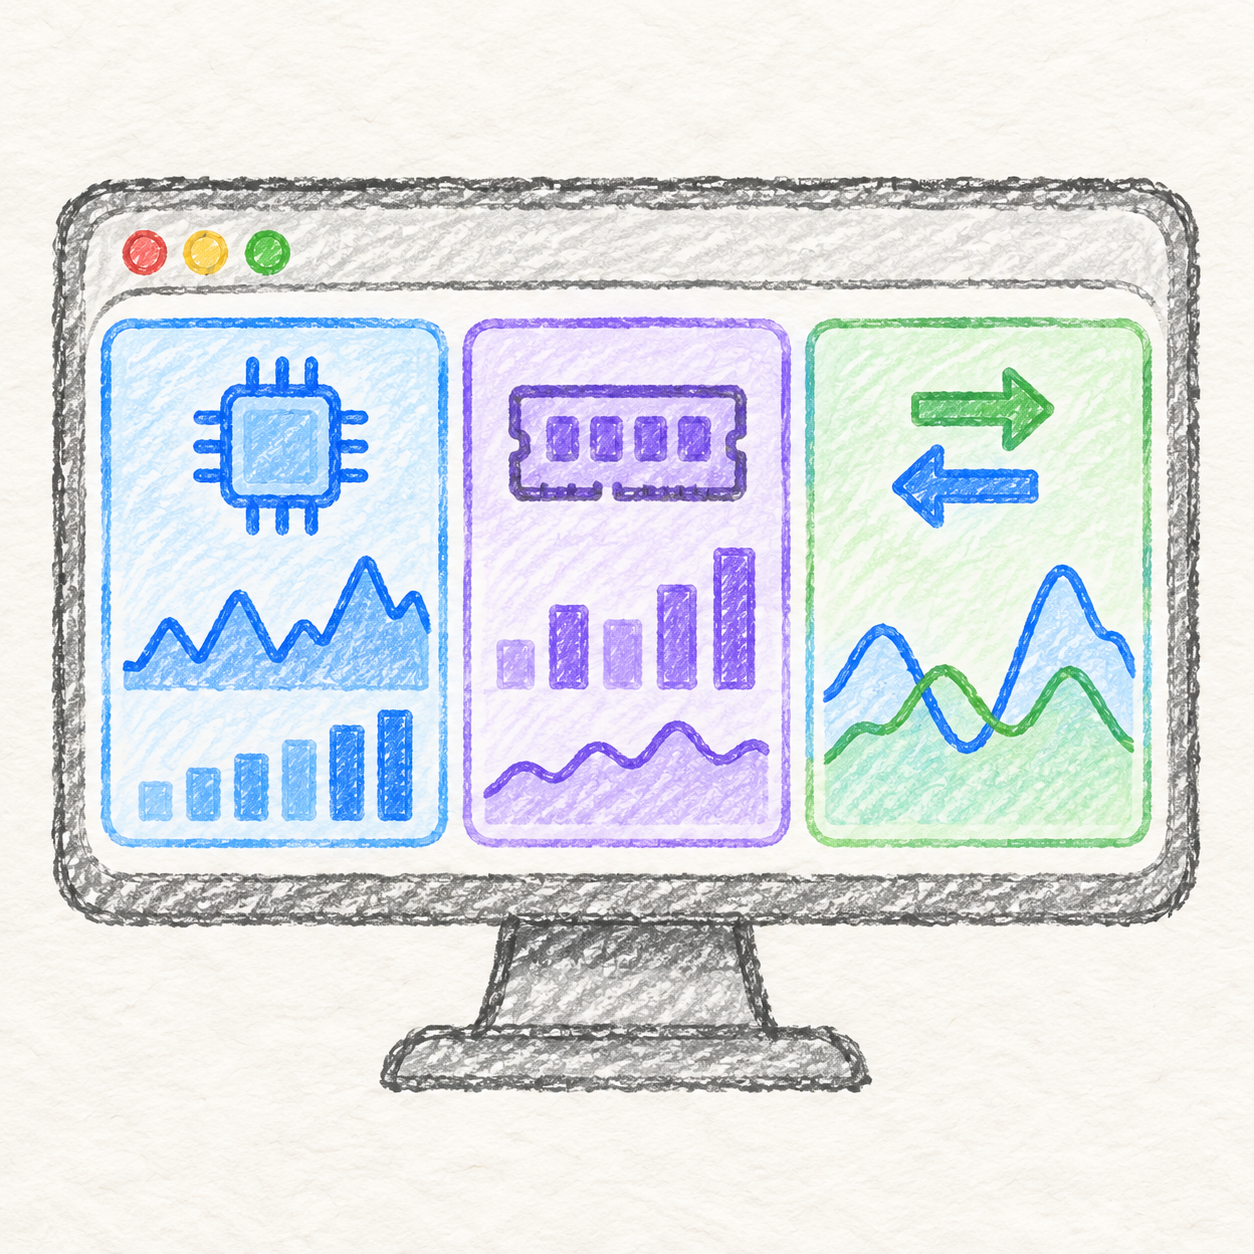
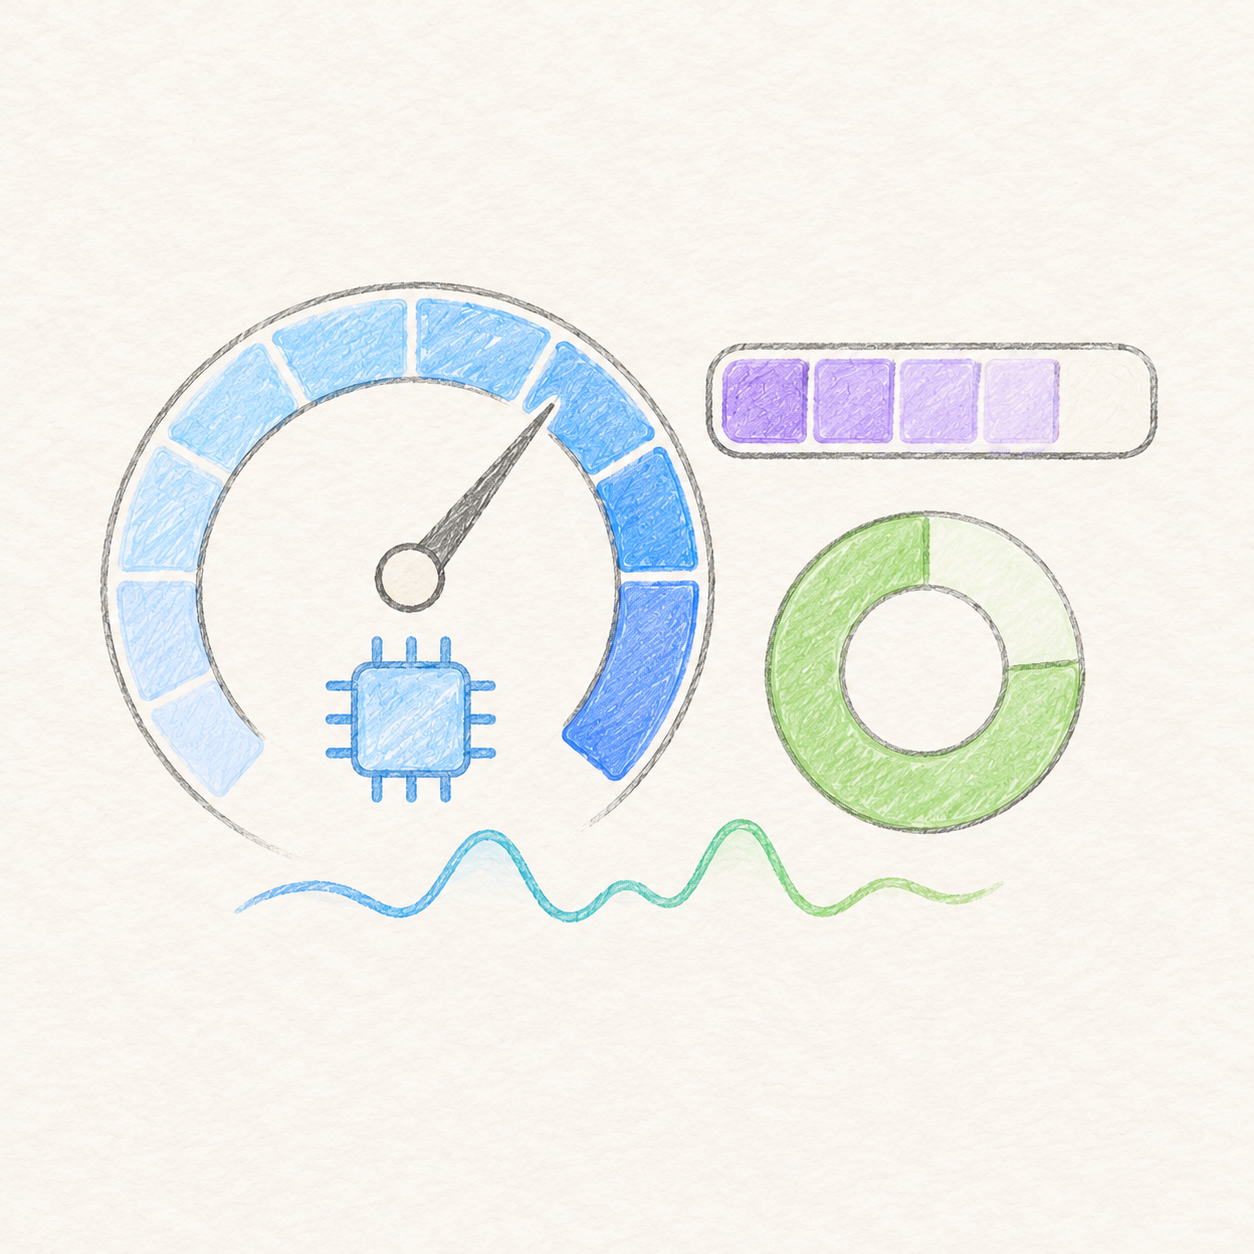
Redraw layout and system status cards without monitor frames

diff --git a/Sources/MacOSX/UI/SketchIcons.swift b/Sources/MacOSX/UI/SketchIcons.swift
@@ -272,7 +272,7 @@ enum SketchCardArt {
               let atlas = CGImageSourceCreateImageAtIndex(source, 0, nil) else { return [:] }
         let regions: [(String, CGFloat)] = [
             ("camera.viewfinder", 70), ("macwindow.on.rectangle", 560),
-            ("text.bubble", 1063), ("rectangle.split.2x1", 1570)
+            ("text.bubble", 1063)
         ]
         var result: [String: NSImage] = [:]
         for (symbol, x) in regions {
@@ -300,34 +300,40 @@ enum SketchCardArt {
             }
         }
     }()
-    private static let systemStatusImage: NSImage? = {
-        guard let url = AppLanguage.resource( "CardSystemStatus", extension: "png"),
+    private static let layoutImage = entryIllustration("CardWindowLayout", region: CGRect(x: 0.03, y: 0.10, width: 0.94, height: 0.82))
+    private static let systemStatusImage = entryIllustration("CardSystemStatus", region: CGRect(x: 0.04, y: 0.18, width: 0.92, height: 0.60))
+    private static func entryIllustration(_ name: String, region: CGRect) -> NSImage? {
+        // Text-free art is shared between languages. Decode a bounded thumbnail
+        // once, then retain only the native card-sized bitmap.
+        guard let url = Bundle.main.url(forResource: name, withExtension: "png"),
               let source = CGImageSourceCreateWithURL(url as CFURL, nil),
               let thumbnail = CGImageSourceCreateThumbnailAtIndex(source, 0, [
                 kCGImageSourceCreateThumbnailFromImageAlways: true,
                 kCGImageSourceCreateThumbnailWithTransform: true,
-                kCGImageSourceThumbnailMaxPixelSize: 256
-              ] as CFDictionary) else { return nil }
-        // Match the entry-card canvas, cropping only the source's paper margin.
-        // Aspect-fill keeps the monitor proportional and avoids a second frame.
+                kCGImageSourceThumbnailMaxPixelSize: 512
+              ] as CFDictionary),
+              let content = thumbnail.cropping(to: CGRect(x: region.minX * CGFloat(thumbnail.width), y: region.minY * CGFloat(thumbnail.height),
+                width: region.width * CGFloat(thumbnail.width), height: region.height * CGFloat(thumbnail.height)).integral) else { return nil }
         let size = CGSize(width: 256, height: 236)
         guard let bitmap = NSBitmapImageRep(bitmapDataPlanes: nil, pixelsWide: 256, pixelsHigh: 236,
             bitsPerSample: 8, samplesPerPixel: 4, hasAlpha: true, isPlanar: false,
             colorSpaceName: .deviceRGB, bytesPerRow: 0, bitsPerPixel: 0),
             let context = NSGraphicsContext(bitmapImageRep: bitmap) else { return nil }
-        let scale = max(size.width / CGFloat(thumbnail.width), size.height / CGFloat(thumbnail.height))
-        let drawn = CGSize(width: CGFloat(thumbnail.width) * scale, height: CGFloat(thumbnail.height) * scale)
+        let scale = min(size.width / CGFloat(content.width), size.height / CGFloat(content.height))
+        let drawn = CGSize(width: CGFloat(content.width) * scale, height: CGFloat(content.height) * scale)
         NSGraphicsContext.saveGraphicsState()
         NSGraphicsContext.current = context; context.imageInterpolation = .high
-        NSImage(cgImage: thumbnail, size: drawn).draw(in: CGRect(
+        SketchPalette.paper.setFill(); CGRect(origin: .zero, size: size).fill()
+        NSImage(cgImage: content, size: drawn).draw(in: CGRect(
             x: (size.width - drawn.width) / 2, y: (size.height - drawn.height) / 2,
             width: drawn.width, height: drawn.height))
         NSGraphicsContext.restoreGraphicsState()
         let image = NSImage(size: size); image.addRepresentation(bitmap)
         return image
-    }()
+    }
     static func image(_ symbol: String) -> NSImage? {
         if symbol == "folder.badge.person.crop" { return nearbyImage }
+        if symbol == "rectangle.split.2x1" { return layoutImage }
         if symbol == "menubar.rectangle" { return menuBarImage }
         if symbol == "chart.xyaxis.line" { return systemStatusImage }
         return images[symbol]
